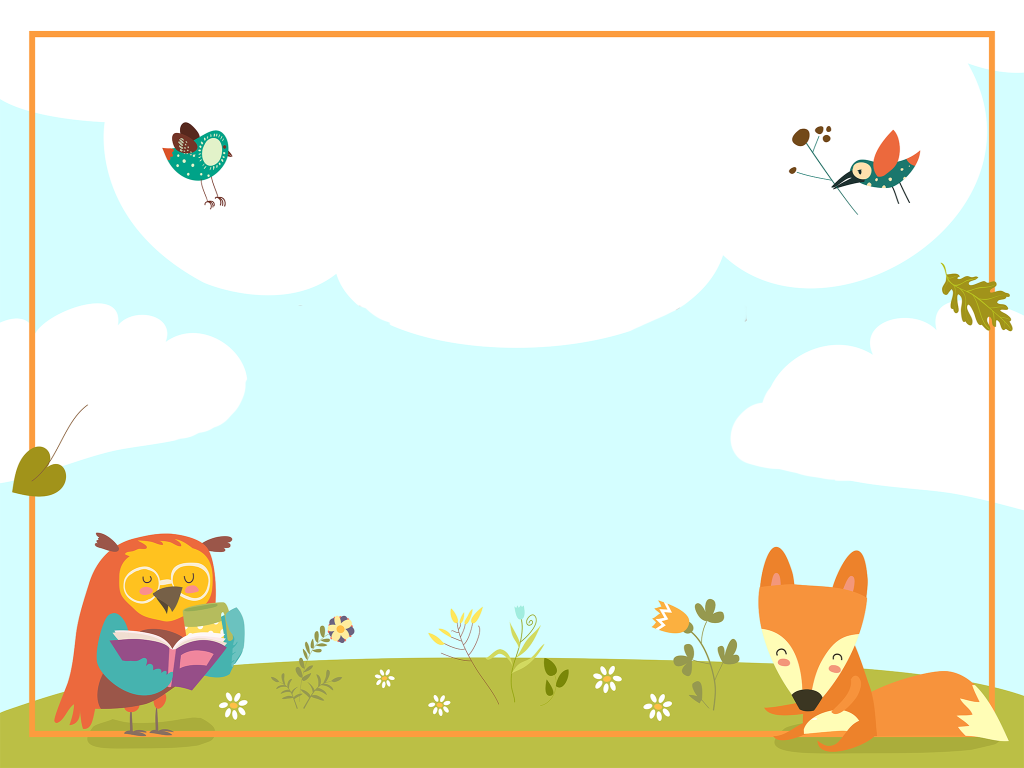
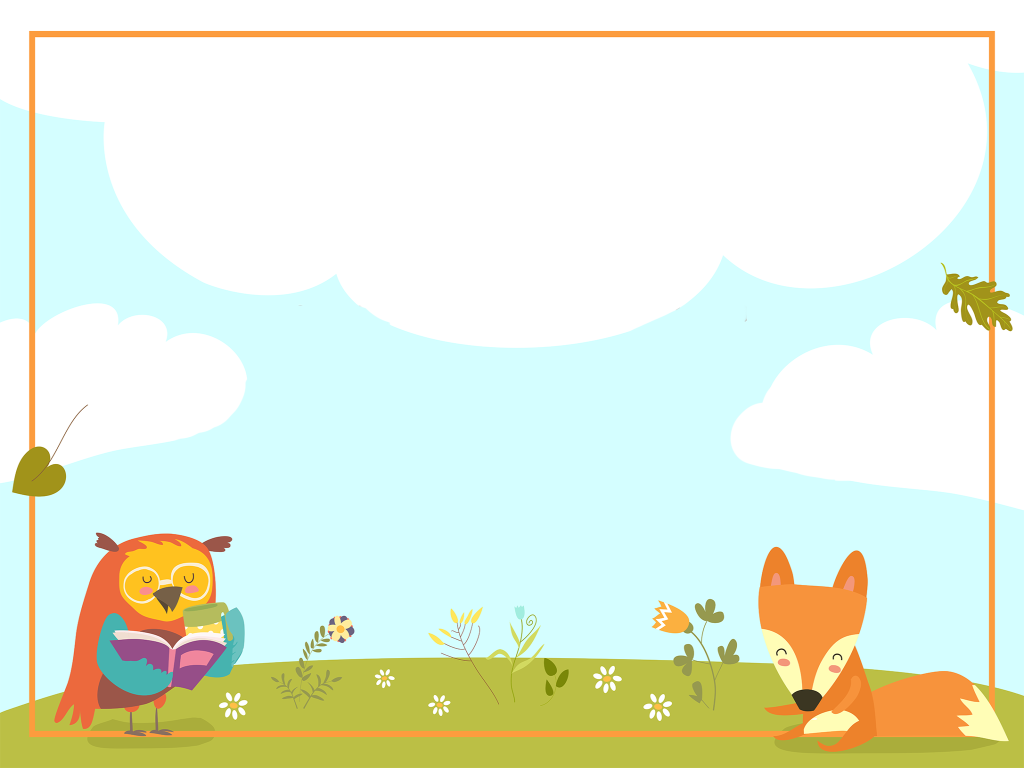
Правки

Changed region(s): [[0.1562, 0.1562, 0.25, 0.2812], [0.8125, 0.1562, 0.9062, 0.25], [0.75, 0.1562, 0.8125, 0.1875]]

diff --git a/assets/intro.js b/assets/intro.js
@@ -29,25 +29,26 @@ const SceneIntro = new Phaser.Class({
         });
 
         this.load.image('introBack', 'assets/intro/back.png');
+        this.load.image('hello', 'assets/intro/hello.png');
         this.load.image('btnStartGame', 'assets/btnStartGame.png');
         this.load.html('nameform', 'assets/nameform.html');
     },
 
     create: function() {
         this.add.image(this.cameras.main.centerX, this.cameras.main.centerY, 'introBack')
+            .setInteractive();
+
+        hello = this.add.image(this.cameras.main.centerX, -100, 'hello')
             .setInteractive()
-            .on('pointerdown', function() {
-                console.log(game.input.mousePointer.x + '   ' + game.input.mousePointer.y);
-
-            }, this);
-
-        const txtHello = this.add.text(this.cameras.main.centerX, 120, 'Привет!', {
-                fontFamily: "rotondac",
-                color: '#2794D1',
-                fontSize: '35px',
-                alpha: 0,
-            })
             .setOrigin(0.5);
+
+        // const txtHello = this.add.text(this.cameras.main.centerX, 120, 'Привет!', {
+        //         fontFamily: "rotondac",
+        //         color: '#2794D1',
+        //         fontSize: '35px',
+        //         alpha: 0,
+        //     })
+        //     .setOrigin(0.5);
 
         // txtWhatIsYourName = this.add.text(this.cameras.main.centerX, -100, 'Как тебя зовут?', {
         //         fontFamily: "rotondac",
@@ -89,6 +90,12 @@ const SceneIntro = new Phaser.Class({
             ease: 'Power3'
         });
 
+        this.tweens.add({
+            targets: [hello],
+            y: 217,
+            duration: 1000,
+            ease: 'Power3'
+        });
 
         this.add.text(20, 742, 'Над игрой работали: Игнат Глушихин, Ольга Дизастр Волкова', {
             fontFamily: "rotondac",

diff --git a/assets/pack.js b/assets/pack.js
@@ -81,6 +81,18 @@ const ScenePack = new Phaser.Class({
             name: 'pack',
             title: 'Рюкзак',
             isGood: true
+        }, {
+            name: 'gun',
+            title: 'Игрушечный пистолет',
+            isGood: false
+        }, {
+            name: 'dumbbell',
+            title: 'Гантели',
+            isGood: false
+        }, {
+            name: 'fox',
+            title: 'Игрушечная лиса',
+            isGood: false
         }];
 
         items.forEach(function(item, i) {
